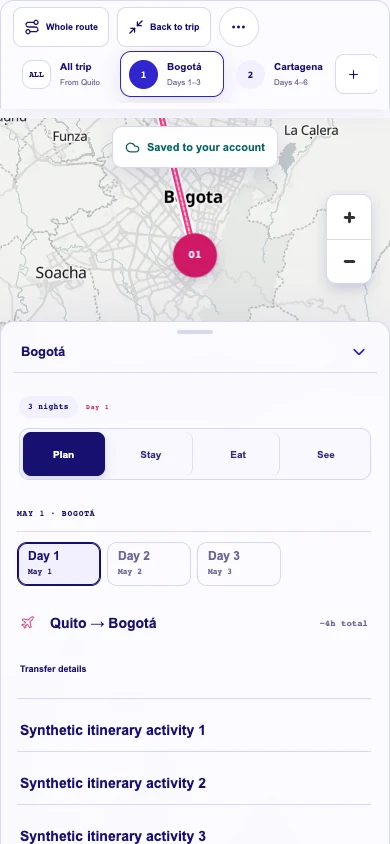
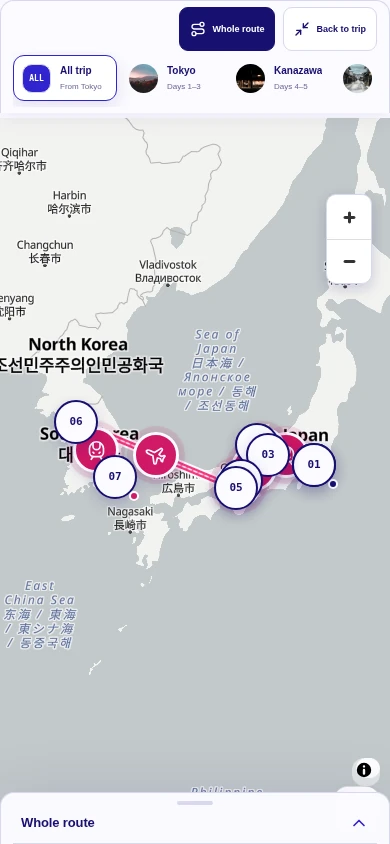
Refresh Morrovia itinerary, transport and map from the same public template

diff --git a/lib/morrovia-case-study.ts b/lib/morrovia-case-study.ts
@@ -33,8 +33,8 @@ export const morroviaCaseStudy: CaseStudy = {
   ],
   overviewMedia: [
     {
-      src: "/morrovia/transport-current.png",
-      alt: "Morrovia Japan, China and Hong Kong connections with transport estimates and booking states",
+      src: "/morrovia/transport-2026-11.webp",
+      alt: "Morrovia’s Japan and South Korea connections, with the estimated Tokyo–Kanazawa rail leg expanded",
       caption: "Transport mode, estimated duration and booking state stay visible between stops.",
       wide: true,
     },
@@ -57,8 +57,8 @@ export const morroviaCaseStudy: CaseStudy = {
       body: "The public homepage offers two starting points: choose stops or describe a trip. I designed the flow around turning that intent into a suggested route the traveller can review and change. The aim is a useful starting point with visible assumptions, rather than a finished answer to accept. The itinerary brings day-by-day planning and activity ideas into the same workspace.",
       resultChip: "Design principle → a starting point the traveller can change",
       media: [{
-        src: "/morrovia/itinerary-current.png",
-        alt: "Current Tokyo itinerary with day parts, trip stops and activity suggestions",
+        src: "/morrovia/itinerary-2026-11.webp",
+        alt: "Tokyo day plan with a Mount Fuji and Hakone activity, the itinerary and a map",
         caption: "A day-by-day itinerary keeps travel, open time and activity ideas together.",
       }],
     },
@@ -69,7 +69,7 @@ export const morroviaCaseStudy: CaseStudy = {
       resultChip: "Design principle → show uncertainty where the decision happens",
       media: [
         {
-          src: "/morrovia/transport-current.png",
+          src: "/morrovia/transport-2026-11.webp",
           alt: "Morrovia connections showing transport mode, estimated duration and booking state",
           caption: "Transport mode, estimated duration and booking state stay visible between stops.",
           wide: true,
@@ -83,8 +83,8 @@ export const morroviaCaseStudy: CaseStudy = {
       resultChip: "Design principle → reliability earns the right to feel simple",
       media: [
         {
-          src: "/morrovia/map-route-current.png",
-          alt: "Whole-trip map connecting London, Japan, China and Hong Kong with numbered stops and transport modes",
+          src: "/morrovia/map-2026-11.webp",
+          alt: "Morrovia route map linking seven Japanese and South Korean stops, with the first Tokyo day selected",
           caption: "The full route keeps stop order and travel between places in view.",
           wide: true,
         },

diff --git a/lib/case-study-media-sizes.ts b/lib/case-study-media-sizes.ts
@@ -1,5 +1,8 @@
 // Existing product assets: measured intrinsic dimensions, no cropped/stretched UI.
 export const caseStudyMediaSizes: Record<string, {width:number; height:number}> = {
+  "/morrovia/itinerary-2026-11.webp": { width: 1600, height: 1050 },
+  "/morrovia/transport-2026-11.webp": { width: 1600, height: 1050 },
+  "/morrovia/map-2026-11.webp": { width: 1600, height: 1000 },
   "/morrovia/homepage-2026-11.webp": { width: 1800, height: 1066 },
   "/morrovia/homepage-complete.png": { width: 1800, height: 930 },
   "/morrovia/itinerary-current.png": { width: 1800, height: 1070 },
@@ -45,7 +48,7 @@ export const caseStudyMediaSizes: Record<string, {width:number; height:number}> 
   },
   "/morrovia/transport-mobile.webp": {
     "width": 390,
-    "height": 1292
+    "height": 844
   },
   "/morrovia/map-desktop.webp": {
     "width": 1440,

diff --git a/lib/content.ts b/lib/content.ts
@@ -39,7 +39,7 @@ export const projects = [
       { value: "AI-assisted", label: "Design and build workflow" },
       { value: "Editable", label: "Traveller stays in control" },
     ],
-    image: "/morrovia/transport-desktop.webp",
+    image: "/morrovia/transport-2026-11.webp",
     href: "/case-study/morrovia",
   },
   {
